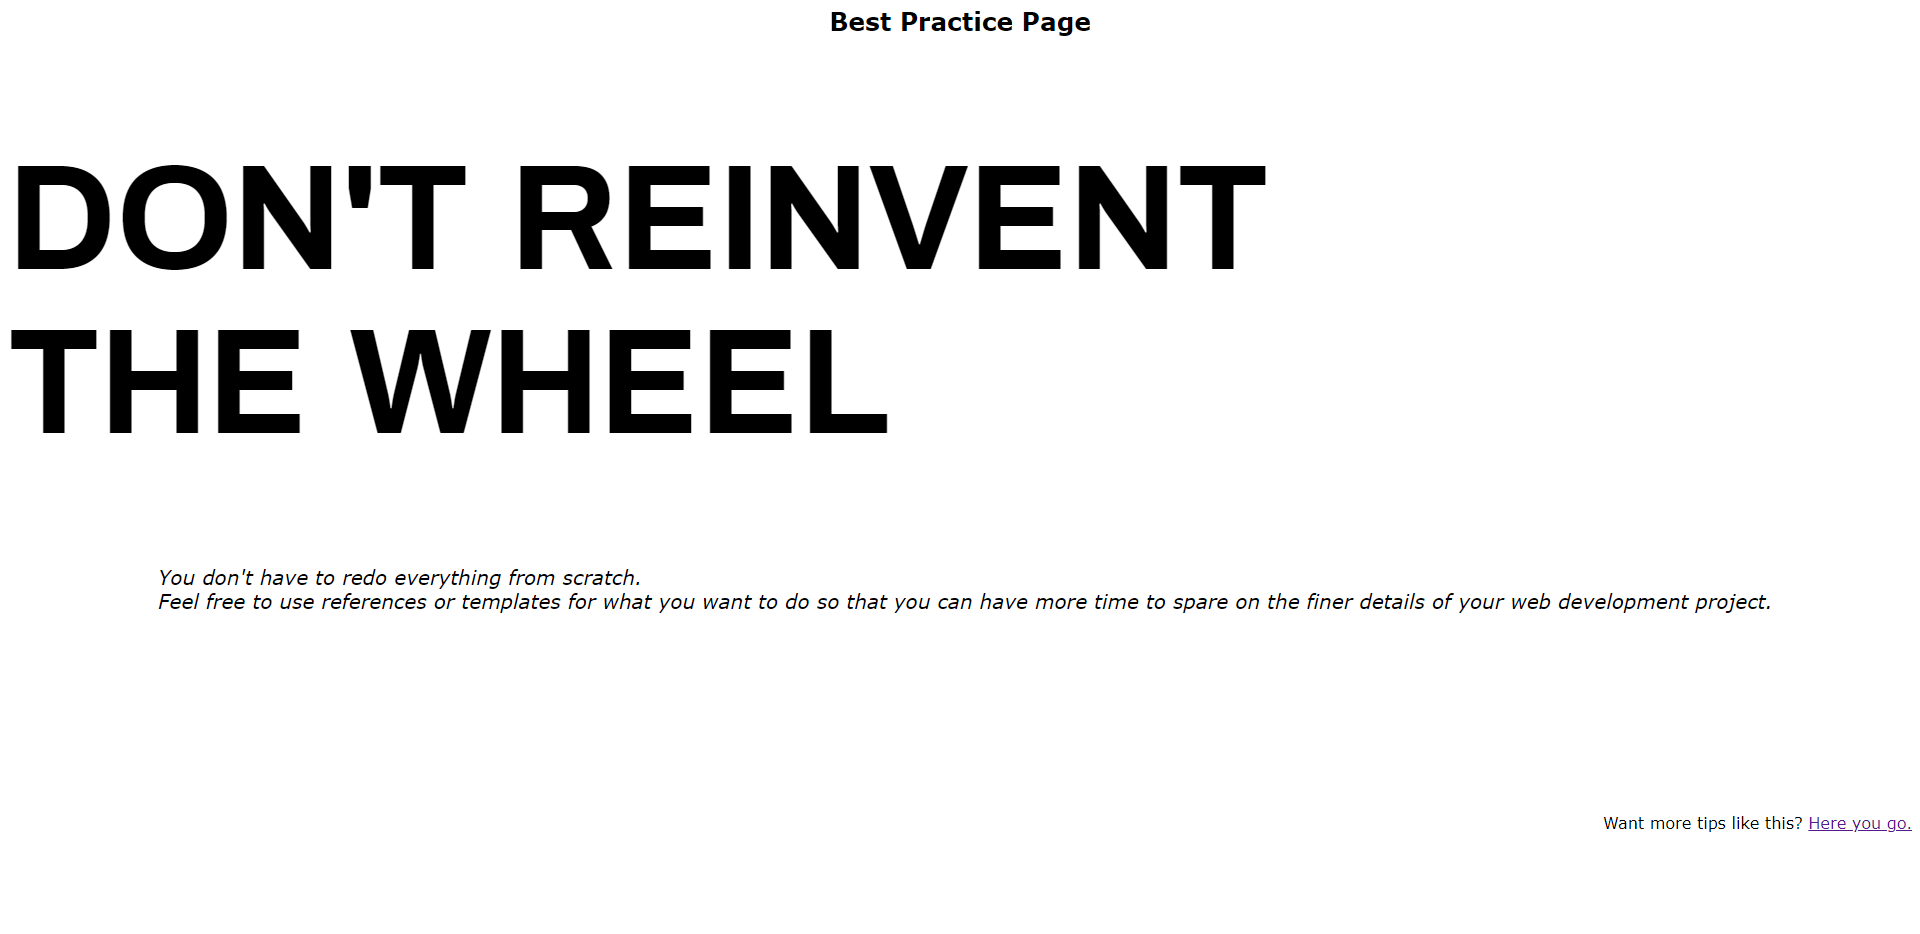
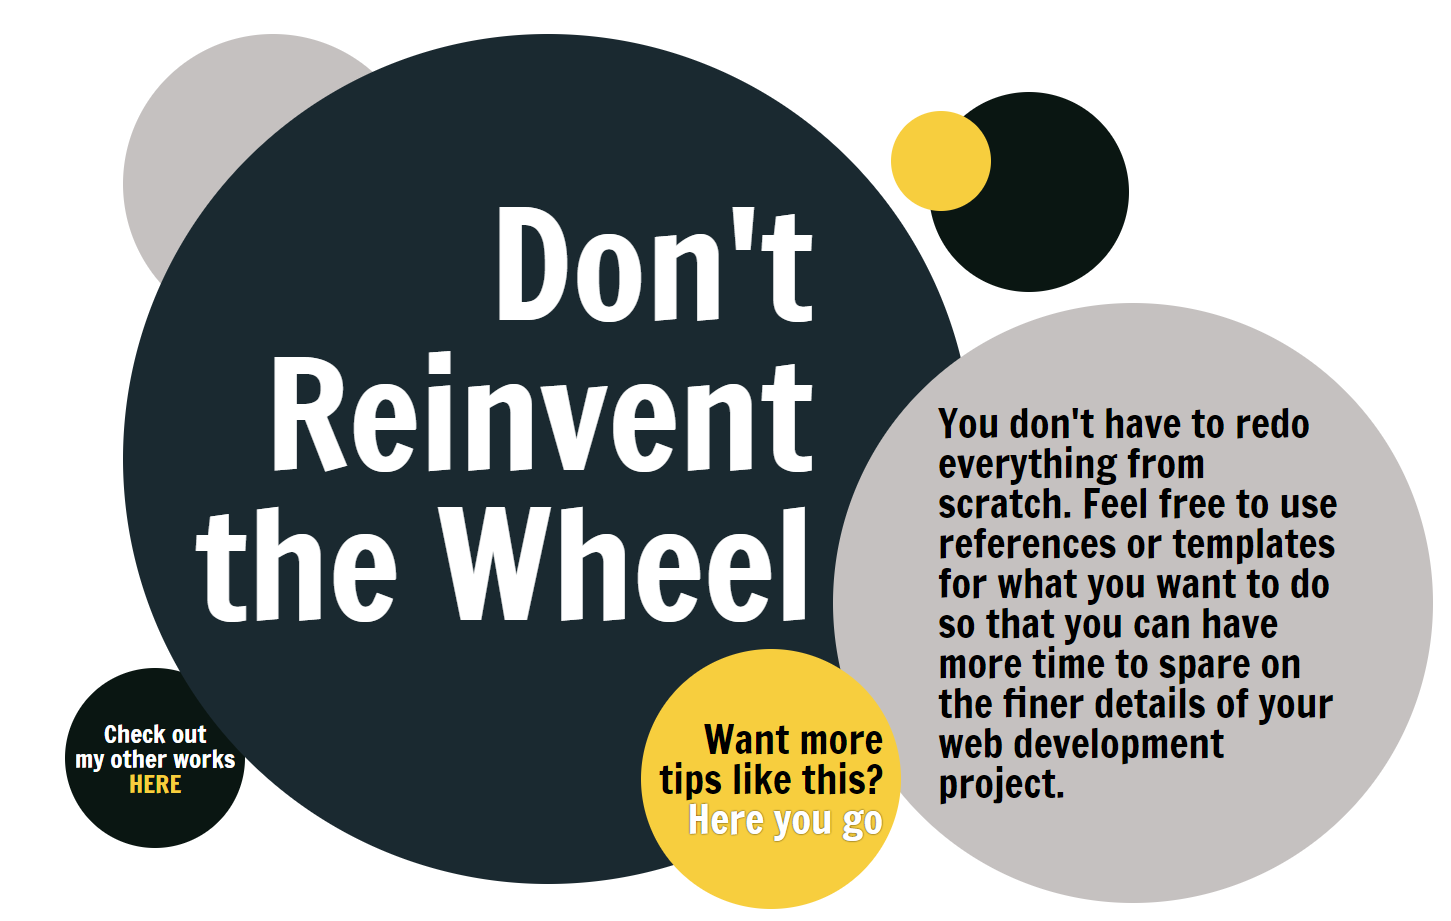
revise assignment 1

diff --git a/Assignments/Assignment 1/Assets/styles.css b/Assignments/Assignment 1/Assets/styles.css
@@ -1,0 +1,165 @@
+@import url('https://fonts.googleapis.com/css2?family=Francois+One&display=swap');
+
+* {
+    box-sizing: border-box;
+    margin: 0;
+    padding: 0;
+}
+
+.wrapper {
+    z-index: 1;
+    position: relative;
+    height: 100vh;
+    top: 0;
+    bottom: 0;
+    right: 0; 
+}
+
+.box {
+    position: absolute;
+    width: 40%;
+    margin-left: 14%;
+    margin-top: 10%;
+    text-align: right;
+}
+
+.text {
+    color: white;
+    font-family: 'Francois One', sans-serif;
+    font-size: 150px;
+    line-height: 1;
+}
+
+.notes {
+    z-index: 2;
+    position: absolute;
+    margin-top: 16%;
+    width: 600px;
+    height: 600px;
+    margin-left: 55%;
+    background-color: #c5c1c0;
+    border-radius: 50%;
+    display: flex;
+    align-items: center;
+    justify-content: center;
+
+}
+
+.desc {
+    color: black;
+    font-family: 'Francois One', sans-serif;
+    font-size: 40px;
+    line-height: 1;
+    width: 400px;
+    margin-left: 10px;
+}
+
+.link-box {
+    z-index: 20;
+    position: absolute;
+    width: 260px;
+    height: 260px;
+    margin-left: 45%;
+    margin-top: 34%;
+    text-align: right;
+    background-color: #f7ce3e;
+    border-radius: 50%;
+    display: flex;
+    align-items: center;
+    justify-content: center;
+}
+
+.link {
+    z-index: 10;
+    color: black;
+    font-family: 'Francois One', sans-serif;
+    font-size: 40px;
+    line-height: 1;
+}
+
+.link a {
+    text-decoration: none;
+    color: white;
+    text-shadow: 0 0 2px black;
+}
+
+.link a:hover {
+    text-shadow: 0 0 5px black, 0 0 5px black, 0 0 5px black;
+
+}
+
+
+.home {
+    z-index: -2;
+    position: absolute;
+    width: 180px;
+    height: 180px;
+    margin-left: 15%;
+    margin-top: 35%;
+    text-align: right;
+    background-color: #0a1612;
+    border-radius: 50%;
+    display: flex;
+    align-items: center;
+    justify-content: center;
+}
+
+.home:hover {
+    z-index: 10;
+}
+
+.link-home {
+    color: white;
+    font-family: 'Francois One', sans-serif;
+    font-size: 25px;
+    line-height: 1;
+    text-align: center;
+}
+
+.link-home a {
+    text-decoration: none;
+    color: #f7ce3e;
+}
+
+.link-home a:hover {
+    text-shadow: 0 0 20px white;
+}
+
+.circle {
+    position: fixed;
+    border-radius: 50%;
+}
+
+.circle-1 {
+    z-index: -1;
+    width: 850px;
+    height: 850px;
+    background-color: #1a2930;
+    margin-left: 18%;
+    margin-top: 2%;
+}
+
+.circle-2 {
+    z-index: -2;
+    width: 200px;
+    height: 200px;
+    background-color: #0a1612;
+    margin-left: 60%;
+    margin-top: 5%;
+}
+.circle-3 {
+    z-index: -2;
+    width: 300px;
+    height: 300px;
+    background-color: #c5c1c0;
+    margin-left: 18%;
+    margin-top: 2%;
+}
+
+.circle-4 {
+    width: 100px;
+    height: 100px;
+    background-color: #f7ce3e;
+    margin-left: 58%;
+    margin-top: 6%;
+}

diff --git a/Assignments/Assignment 1/index.html b/Assignments/Assignment 1/index.html
@@ -1,21 +1,43 @@
-<html>
+<!DOCTYPE html>
+<html lang="en">
     <head>
-        <title>Assignment #1</title>
-        <link rel="stylesheet" href="Assets/style.css" />
-
+        <meta charset="UTF-8">
+        <meta name="author" content="rlapolonio">
+        <meta name="viewport" content="width=device-width, initial-scale=1.0">
+        <link rel="stylesheet" href="./Assets/styles.css">
+        <title>Best Practice Page</title>
     </head>
-
     <body>
-        <div id="header">
-            <span>Best Practice Page</span>
-        </div>
-        <div id="practice">
-            <h1>DON'T REINVENT <br>THE WHEEL</h1>
-            <p>You don't have to redo everything from scratch. <br>Feel free to use references or templates for what you want to do so that you can have more time to spare on the finer details of your web development project.</p>
-            <div id="link">
-                <span>Want more tips like this? <a href="https://www.codingdojo.com/blog/web-development-best-practices">Here you go.</a></span>
+        <section class="wrapper">
+            <div class="box">
+                <p class="text">
+                    Don't Reinvent the Wheel
+                </p>
             </div>
-        </div>
+            <div class="notes">
+                <p class="desc">
+                    You don't have to redo everything from scratch.
+                    Feel free to use references or templates for what you want to do so that you can have more time to spare on the finer details of your web development project.
+                </p>
+            </div>
+            <div class="link-box">
+                <p class="link">
+                    Want more<br>tips like this?<br>
+                    <a href="https://www.codingdojo.com/blog/web-development-best-practices" target="_blank">Here you go</a>
+                </p>
+            </div>
+            <div class="home">
+                <p class="link-home">
+                    Check out<br>my other works<br>
+                    <a href="https://rlapolonio.github.io/batch6-activities/" target="_blank">HERE</a>
+                </p>
+            </div>
+            <div class="circle circle-1"></div>
+            <div class="circle circle-2"></div>
+            <div class="circle circle-3"></div>
+            <div class="circle circle-4"></div>
+            <div class="circle circle-5"></div>
+            <div class="circle circle-6"></div>
+        </section>     
     </body>
-
 </html>

diff --git a/Assets/styles.css b/Assets/styles.css
@@ -110,7 +110,7 @@ body {
 
 .img1 {
     background: url("./images/assignment_1.png");
-    background-position:left;
+    background-position:center;
 }
 
 .img2 {
